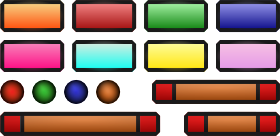
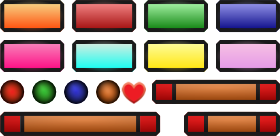
Thêm đồ họa cho tăng mạng và sửa lỗi file âm thanh không tìm thấy

Changed region(s): [[0.4286, 0.5882, 0.5429, 0.7647]]

diff --git a/src/PowerUp/ExtraLifePowerUp.java b/src/PowerUp/ExtraLifePowerUp.java
@@ -7,7 +7,7 @@ public class ExtraLifePowerUp extends PowerUp {
 
     public ExtraLifePowerUp(double x, double y, SpriteManager spriteManager) {
         // Đặt sprite cho PowerUp Extra Life, ví dụ: icon hình trái tim hoặc biểu tượng tăng mạng
-        super(x, y, 32, 32, spriteManager.getSprite("ball_red"));
+        super(x, y, 32, 32, spriteManager.getSprite("heart"));
     }
 
     @Override
@@ -15,7 +15,7 @@ public class ExtraLifePowerUp extends PowerUp {
         // Tăng mạng nếu mạng hiện tại ít hơn 3
         if (game.getLives() < 3) {
             game.setLives(game.getLives() + 1);
-            game.getSoundManager().playSound("extraLife"); // Phát âm thanh khi nhận PowerUp
+            game.getSoundManager().playSound("powerUp"); // Phát âm thanh khi nhận PowerUp
         }
     }
 }

diff --git a/src/GameManager/SoundManager.java b/src/GameManager/SoundManager.java
@@ -47,7 +47,7 @@ public class SoundManager {
         loadSound("loseHealth", "/Resource/SoundEffect/loseHealth.wav", 2);
         loadSound("lose", "/Resource/SoundEffect/loseHealth.wav", 2);
         loadSound("levelComplete", "/Resource/SoundEffect/levelComplete.wav", 1);
-        loadSound("powerup", "/Resource/SoundEffect/powerup.wav", 3);
+        loadSound("powerup", "/Resource/SoundEffect/powerUp.wav", 3);
 
         // Music tracks - only need 1 instance
         loadSound("gameOver", "/Resource/Music/gameOver.wav", 1);
@@ -55,7 +55,6 @@ public class SoundManager {
         loadSound("background", "/Resource/Music/background.wav", 1);
         loadSound("start", "/Resource/Music/start.wav", 1);
         loadSound("press", "/Resource/SoundEffect/press.wav", 1);
-
     }
 
     /**

diff --git a/src/GameManager/Renderer.java b/src/GameManager/Renderer.java
@@ -570,6 +570,11 @@ public class Renderer extends JPanel {
         g2d.setColor(Color.WHITE);
         g.drawString("Split Ball", 420, powerUpY + powerUpSpacing * 3);
 
+        // Tăng mạng (Heart)
+        g.drawImage(spriteManager.getSprite("heart"), 380, powerUpY + powerUpSpacing * 4 - 15, 24, 24, this);
+        g2d.setColor(Color.WHITE);
+        g.drawString("Increase heart", 420, powerUpY + powerUpSpacing * 4);
+
         // GAME INFO
         g.setFont(new Font("Press Start 2P", Font.BOLD, 16));
         g.setColor(new Color(0,0,0));

diff --git a/src/GameManager/SpriteManager.java b/src/GameManager/SpriteManager.java
@@ -58,6 +58,7 @@ public class SpriteManager {
             sprites.put("ball_green", getSprite(32, 80, BALL_SIZE, BALL_SIZE));
             sprites.put("ball_blue", getSprite(64, 80, BALL_SIZE, BALL_SIZE));
             sprites.put("ball_brown", getSprite(96, 80, BALL_SIZE, BALL_SIZE));
+            sprites.put("heart", getSprite(122, 82, BALL_SIZE, BALL_SIZE));
 
             sprites.put("paddle_red", getSprite(152, 80, PADDLE_WIDTH, PADDLE_HEIGHT));
             sprites.put("paddle_orange", getSprite(0, 112, PADDLE_WIDTH + 32, PADDLE_HEIGHT));
